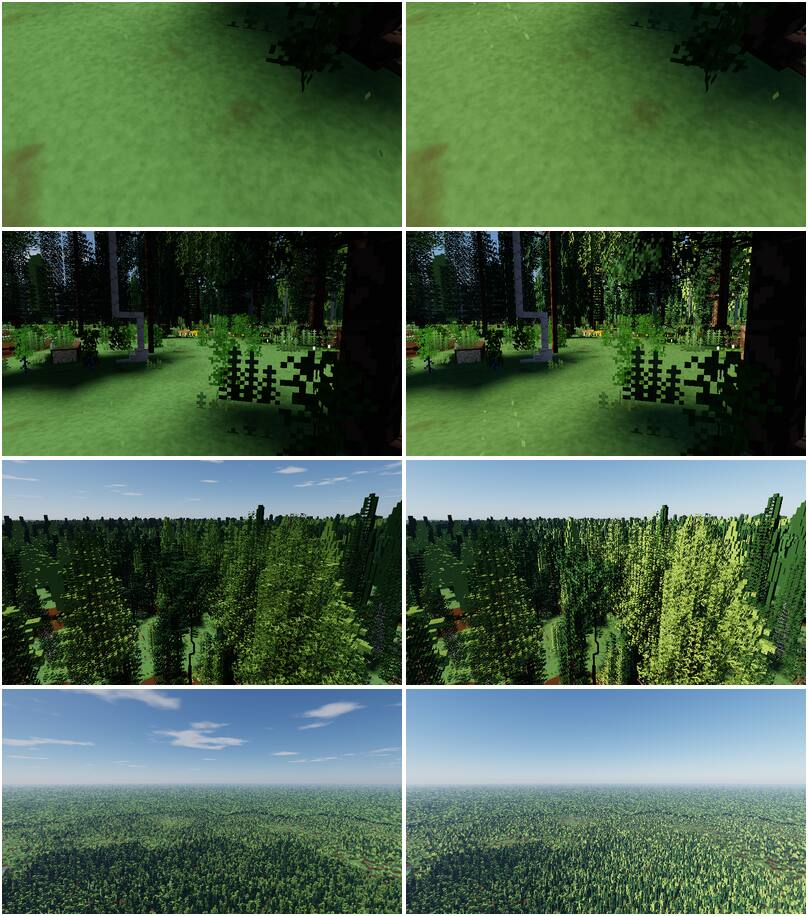
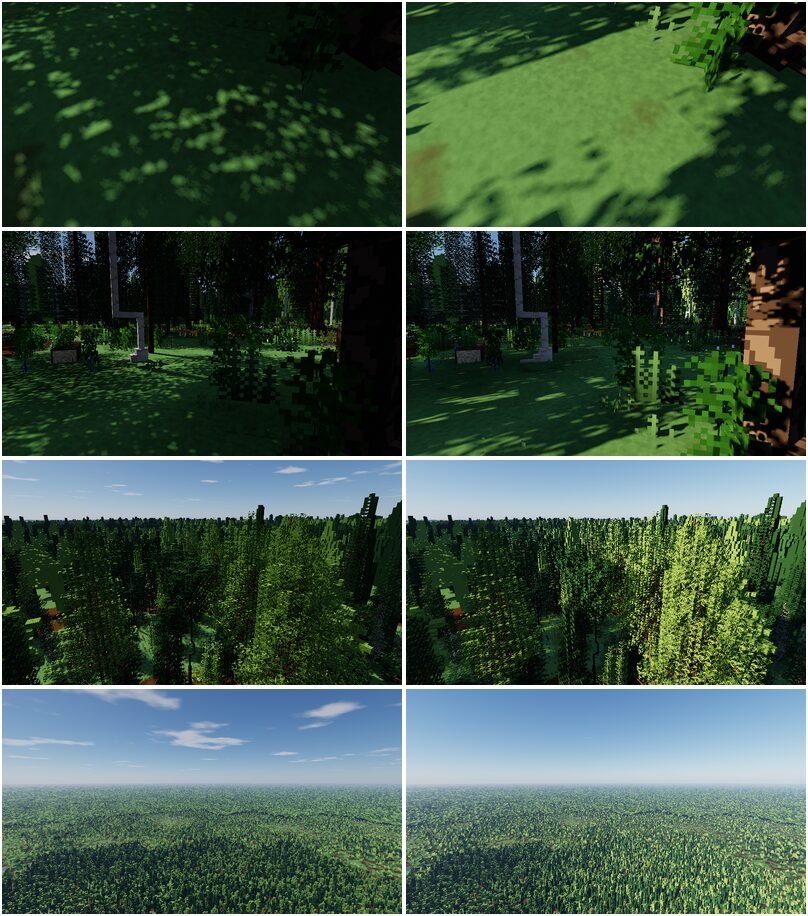
R1a: review pictures, the suite with shadows, image measures, benchmarks, PROGRESS
The realism suite re-rendered with the sun's shadows; low sun before and
after, shadows off and on, the soft edges underfoot (docs/review/r1a/).
Image statistics: spectral alpha underfoot 1.89 -> 2.26, at eye height
1.23 -> 1.32, colourfulness at eye height 60 -> 54. The frame thread
+1.5 ms on the software device (prepare: terrain 1.02 -> 2.52 ms).

Claude-Session: https://claude.ai/code/session_01C1fpqWnDUkUnvLbUdps2rC

diff --git a/docs/review/realism/measures/images.md b/docs/review/realism/measures/images.md
@@ -1,134 +1,134 @@
 | Shot | Luminance p5 · p50 · p95 | Colourfulness | Spectral α | Repetition (lag px) |
 |---|---|---|---|---|
-| alpine_meadow_feet_day | 0.22 · 0.50 · 0.53 | 57 | 1.70 | 0.02 (226) |
-| alpine_meadow_feet_low | 0.27 · 0.50 · 0.53 | 56 | 1.69 | 0.02 (226) |
+| alpine_meadow_feet_day | 0.12 · 0.49 · 0.53 | 60 | 2.04 | 0.07 (216) |
+| alpine_meadow_feet_low | 0.14 · 0.48 · 0.53 | 59 | 2.15 | 0.00 (173) |
 | alpine_meadow_hill_day | 0.46 · 0.53 · 0.75 | 60 | 1.14 | 0.03 (95) |
 | alpine_meadow_hill_low | 0.48 · 0.58 · 0.80 | 56 | 1.29 | 0.09 (103) |
-| alpine_meadow_rise_day | 0.41 · 0.50 · 0.75 | 70 | 0.86 | 0.01 (20) |
-| alpine_meadow_rise_low | 0.43 · 0.50 · 0.80 | 68 | 0.94 | 0.01 (19) |
-| alpine_meadow_walk_day | 0.23 · 0.51 · 0.74 | 73 | 1.22 | 0.01 (180) |
-| alpine_meadow_walk_low | 0.28 · 0.52 · 0.80 | 76 | 1.20 | 0.01 (181) |
-| alpine_rock_feet_day | 0.41 · 0.48 · 0.51 | 7 | 1.90 | 0.01 (240) |
-| alpine_rock_feet_low | 0.32 · 0.39 · 0.43 | 8 | 1.92 | 0.01 (240) |
+| alpine_meadow_rise_day | 0.39 · 0.50 · 0.75 | 70 | 0.89 | 0.01 (20) |
+| alpine_meadow_rise_low | 0.34 · 0.50 · 0.80 | 67 | 1.15 | 0.02 (153) |
+| alpine_meadow_walk_day | 0.13 · 0.50 · 0.74 | 70 | 1.30 | 0.03 (235) |
+| alpine_meadow_walk_low | 0.11 · 0.51 · 0.80 | 69 | 1.29 | 0.03 (200) |
+| alpine_rock_feet_day | 0.41 · 0.48 · 0.51 | 8 | 1.91 | 0.01 (240) |
+| alpine_rock_feet_low | 0.32 · 0.39 · 0.43 | 8 | 1.94 | 0.01 (240) |
 | alpine_rock_hill_day | 0.44 · 0.54 · 0.73 | 44 | 1.47 | 0.00 (192) |
 | alpine_rock_hill_low | 0.46 · 0.61 · 0.81 | 44 | 1.63 | 0.01 (237) |
-| alpine_rock_rise_day | 0.43 · 0.50 · 0.72 | 32 | 0.92 | 0.02 (169) |
-| alpine_rock_rise_low | 0.40 · 0.53 · 0.81 | 33 | 0.83 | 0.03 (240) |
-| alpine_rock_walk_day | 0.06 · 0.51 · 0.72 | 42 | 1.30 | 0.15 (203) |
-| alpine_rock_walk_low | 0.08 · 0.53 · 0.80 | 44 | 1.01 | 0.10 (206) |
-| beach_feet_day | 0.75 · 0.79 · 0.82 | 6 | 2.49 | 0.05 (173) |
-| beach_feet_low | 0.75 · 0.79 · 0.82 | 8 | 2.49 | 0.05 (173) |
+| alpine_rock_rise_day | 0.42 · 0.50 · 0.72 | 32 | 0.99 | 0.02 (169) |
+| alpine_rock_rise_low | 0.38 · 0.53 · 0.81 | 33 | 0.96 | 0.03 (239) |
+| alpine_rock_walk_day | 0.06 · 0.51 · 0.72 | 42 | 1.31 | 0.13 (204) |
+| alpine_rock_walk_low | 0.08 · 0.53 · 0.80 | 44 | 1.08 | 0.10 (202) |
+| beach_feet_day | 0.75 · 0.79 · 0.82 | 6 | 2.49 | 0.05 (172) |
+| beach_feet_low | 0.43 · 0.78 · 0.82 | 22 | 2.66 | 0.00 (0) |
 | beach_hill_day | 0.42 · 0.63 · 0.71 | 44 | 1.19 | 0.01 (233) |
-| beach_hill_low | 0.60 · 0.72 · 0.82 | 37 | 1.13 | 0.00 (232) |
-| beach_rise_day | 0.22 · 0.66 · 0.79 | 39 | 1.52 | 0.05 (206) |
-| beach_rise_low | 0.43 · 0.79 · 0.82 | 37 | 1.44 | 0.04 (202) |
-| beach_walk_day | 0.19 · 0.75 · 0.82 | 41 | 1.21 | 0.04 (189) |
-| beach_walk_low | 0.40 · 0.78 · 0.82 | 41 | 1.23 | 0.03 (189) |
-| boreal_forest_feet_day | 0.02 · 0.46 · 0.54 | 38 | 2.26 | 0.00 (0) |
-| boreal_forest_feet_low | 0.03 · 0.46 · 0.56 | 39 | 2.25 | 0.00 (0) |
+| beach_hill_low | 0.60 · 0.72 · 0.82 | 37 | 1.13 | 0.00 (212) |
+| beach_rise_day | 0.22 · 0.66 · 0.79 | 39 | 1.56 | 0.07 (199) |
+| beach_rise_low | 0.36 · 0.78 · 0.82 | 36 | 1.45 | 0.03 (202) |
+| beach_walk_day | 0.18 · 0.75 · 0.82 | 41 | 1.20 | 0.03 (189) |
+| beach_walk_low | 0.30 · 0.78 · 0.82 | 40 | 1.19 | 0.02 (178) |
+| boreal_forest_feet_day | 0.02 · 0.11 · 0.29 | 19 | 2.42 | 0.23 (200) |
+| boreal_forest_feet_low | 0.09 · 0.42 · 0.55 | 43 | 2.43 | 0.00 (0) |
 | boreal_forest_hill_day | 0.10 · 0.49 · 0.73 | 48 | 0.57 | 0.01 (126) |
 | boreal_forest_hill_low | 0.13 · 0.59 · 0.81 | 51 | 0.43 | 0.01 (127) |
-| boreal_forest_rise_day | 0.02 · 0.15 · 0.72 | 43 | 0.78 | 0.10 (133) |
-| boreal_forest_rise_low | 0.02 · 0.38 · 0.81 | 54 | 0.67 | 0.07 (134) |
-| boreal_forest_walk_day | 0.00 · 0.06 · 0.53 | 37 | 1.19 | 0.00 (0) |
-| boreal_forest_walk_low | 0.01 · 0.09 · 0.55 | 42 | 1.01 | 0.00 (0) |
-| broadleaf_forest_feet_day | 0.31 · 0.53 · 0.57 | 41 | 1.63 | 0.02 (231) |
-| broadleaf_forest_feet_low | 0.38 · 0.55 · 0.58 | 42 | 1.63 | 0.02 (237) |
+| boreal_forest_rise_day | 0.02 · 0.13 · 0.72 | 40 | 0.78 | 0.08 (139) |
+| boreal_forest_rise_low | 0.02 · 0.20 · 0.81 | 51 | 0.64 | 0.01 (234) |
+| boreal_forest_walk_day | 0.00 · 0.04 · 0.35 | 23 | 1.08 | 0.00 (0) |
+| boreal_forest_walk_low | 0.01 · 0.10 · 0.52 | 38 | 1.18 | 0.02 (217) |
+| broadleaf_forest_feet_day | 0.09 · 0.43 · 0.56 | 45 | 2.23 | 0.00 (0) |
+| broadleaf_forest_feet_low | 0.15 · 0.53 · 0.58 | 46 | 2.40 | 0.00 (145) |
 | broadleaf_forest_hill_day | 0.13 · 0.51 · 0.72 | 50 | 0.67 | 0.01 (126) |
-| broadleaf_forest_hill_low | 0.17 · 0.61 · 0.81 | 54 | 0.46 | 0.01 (127) |
-| broadleaf_forest_rise_day | 0.03 · 0.32 · 0.71 | 49 | 1.29 | 0.02 (240) |
-| broadleaf_forest_rise_low | 0.05 · 0.53 · 0.81 | 58 | 1.15 | 0.01 (238) |
-| broadleaf_forest_walk_day | 0.02 · 0.34 · 0.57 | 53 | 1.20 | 0.04 (167) |
-| broadleaf_forest_walk_low | 0.02 · 0.49 · 0.69 | 60 | 1.06 | 0.02 (168) |
-| dune_sea_feet_day | 0.23 · 0.27 · 0.51 | 21 | 2.08 | 0.07 (64) |
-| dune_sea_feet_low | 0.24 · 0.28 · 0.62 | 25 | 2.05 | 0.06 (64) |
+| broadleaf_forest_hill_low | 0.17 · 0.61 · 0.81 | 54 | 0.46 | 0.01 (198) |
+| broadleaf_forest_rise_day | 0.03 · 0.24 · 0.71 | 45 | 1.31 | 0.03 (206) |
+| broadleaf_forest_rise_low | 0.05 · 0.35 · 0.81 | 52 | 1.16 | 0.05 (240) |
+| broadleaf_forest_walk_day | 0.02 · 0.26 · 0.57 | 50 | 1.28 | 0.03 (162) |
+| broadleaf_forest_walk_low | 0.02 · 0.15 · 0.63 | 48 | 1.22 | 0.01 (145) |
+| dune_sea_feet_day | 0.23 · 0.27 · 0.51 | 21 | 2.17 | 0.05 (62) |
+| dune_sea_feet_low | 0.06 · 0.27 · 0.44 | 25 | 2.24 | 0.05 (240) |
 | dune_sea_hill_day | 0.29 · 0.38 · 0.69 | 44 | 1.35 | 0.01 (95) |
 | dune_sea_hill_low | 0.32 · 0.50 · 0.84 | 40 | 1.33 | 0.01 (95) |
-| dune_sea_rise_day | 0.27 · 0.28 · 0.68 | 37 | 0.93 | 0.01 (122) |
-| dune_sea_rise_low | 0.27 · 0.30 · 0.83 | 32 | 0.90 | 0.02 (124) |
-| dune_sea_walk_day | 0.23 · 0.39 · 0.69 | 54 | 1.39 | 0.12 (85) |
-| dune_sea_walk_low | 0.24 · 0.55 · 0.83 | 55 | 1.39 | 0.11 (85) |
-| hot_desert_feet_day | 0.76 · 0.80 · 0.83 | 24 | 2.11 | 0.06 (198) |
-| hot_desert_feet_low | 0.76 · 0.80 · 0.83 | 28 | 2.24 | 0.06 (198) |
+| dune_sea_rise_day | 0.27 · 0.28 · 0.68 | 37 | 0.92 | 0.01 (97) |
+| dune_sea_rise_low | 0.22 · 0.29 · 0.83 | 32 | 0.86 | 0.02 (126) |
+| dune_sea_walk_day | 0.23 · 0.39 · 0.69 | 54 | 1.37 | 0.12 (84) |
+| dune_sea_walk_low | 0.07 · 0.49 · 0.83 | 53 | 1.40 | 0.07 (168) |
+| hot_desert_feet_day | 0.76 · 0.80 · 0.83 | 24 | 2.36 | 0.06 (198) |
+| hot_desert_feet_low | 0.40 · 0.79 · 0.83 | 31 | 2.53 | 0.02 (198) |
 | hot_desert_hill_day | 0.39 · 0.78 · 0.80 | 52 | 1.57 | 0.03 (177) |
 | hot_desert_hill_low | 0.57 · 0.80 · 0.83 | 49 | 1.39 | 0.03 (177) |
-| hot_desert_rise_day | 0.51 · 0.80 · 0.81 | 46 | 0.68 | 0.01 (90) |
-| hot_desert_rise_low | 0.69 · 0.80 · 0.82 | 44 | 0.67 | 0.02 (106) |
-| hot_desert_walk_day | 0.39 · 0.68 · 0.83 | 61 | 1.29 | 0.05 (240) |
-| hot_desert_walk_low | 0.54 · 0.77 · 0.83 | 64 | 1.23 | 0.04 (240) |
-| mediterranean_scrub_feet_day | 0.09 · 0.46 · 0.59 | 48 | 1.76 | 0.00 (0) |
-| mediterranean_scrub_feet_low | 0.13 · 0.56 · 0.70 | 56 | 1.75 | 0.00 (0) |
+| hot_desert_rise_day | 0.51 · 0.80 · 0.81 | 46 | 0.69 | 0.01 (90) |
+| hot_desert_rise_low | 0.68 · 0.80 · 0.82 | 44 | 0.87 | 0.01 (84) |
+| hot_desert_walk_day | 0.39 · 0.68 · 0.83 | 61 | 1.30 | 0.05 (240) |
+| hot_desert_walk_low | 0.37 · 0.76 · 0.83 | 61 | 1.44 | 0.03 (240) |
+| mediterranean_scrub_feet_day | 0.09 · 0.55 · 0.60 | 54 | 2.46 | 0.07 (143) |
+| mediterranean_scrub_feet_low | 0.09 · 0.65 · 0.70 | 63 | 2.45 | 0.00 (0) |
 | mediterranean_scrub_hill_day | 0.35 · 0.55 · 0.71 | 63 | 1.10 | 0.03 (203) |
-| mediterranean_scrub_hill_low | 0.40 · 0.61 · 0.82 | 60 | 0.95 | 0.01 (35) |
-| mediterranean_scrub_rise_day | 0.12 · 0.55 · 0.69 | 68 | 1.25 | 0.05 (238) |
-| mediterranean_scrub_rise_low | 0.22 · 0.59 · 0.82 | 68 | 0.99 | 0.01 (220) |
-| mediterranean_scrub_walk_day | 0.12 · 0.48 · 0.68 | 67 | 1.23 | 0.00 (28) |
-| mediterranean_scrub_walk_low | 0.17 · 0.60 · 0.76 | 75 | 1.16 | 0.00 (98) |
-| mixed_forest_feet_day | 0.04 · 0.48 · 0.57 | 43 | 1.89 | 0.00 (0) |
-| mixed_forest_feet_low | 0.06 · 0.51 · 0.58 | 46 | 1.92 | 0.00 (0) |
+| mediterranean_scrub_hill_low | 0.40 · 0.61 · 0.82 | 60 | 0.96 | 0.02 (35) |
+| mediterranean_scrub_rise_day | 0.12 · 0.55 · 0.69 | 68 | 1.24 | 0.04 (236) |
+| mediterranean_scrub_rise_low | 0.16 · 0.57 · 0.82 | 65 | 1.00 | 0.01 (219) |
+| mediterranean_scrub_walk_day | 0.11 · 0.52 · 0.69 | 70 | 1.33 | 0.03 (240) |
+| mediterranean_scrub_walk_low | 0.11 · 0.63 · 0.76 | 77 | 1.37 | 0.06 (228) |
+| mixed_forest_feet_day | 0.04 · 0.12 · 0.55 | 33 | 1.96 | 0.00 (0) |
+| mixed_forest_feet_low | 0.05 · 0.16 · 0.57 | 42 | 2.09 | 0.00 (0) |
 | mixed_forest_hill_day | 0.13 · 0.52 · 0.72 | 50 | 0.86 | 0.02 (224) |
 | mixed_forest_hill_low | 0.18 · 0.59 · 0.82 | 51 | 0.52 | 0.01 (224) |
-| mixed_forest_rise_day | 0.04 · 0.49 · 0.71 | 49 | 1.33 | 0.07 (240) |
-| mixed_forest_rise_low | 0.07 · 0.56 · 0.81 | 57 | 1.13 | 0.01 (240) |
-| mixed_forest_walk_day | 0.01 · 0.07 · 0.54 | 32 | 1.67 | 0.01 (121) |
-| mixed_forest_walk_low | 0.02 · 0.11 · 0.70 | 49 | 1.75 | 0.00 (0) |
-| savanna_feet_day | 0.43 · 0.53 · 0.57 | 53 | 1.85 | 0.04 (185) |
-| savanna_feet_low | 0.48 · 0.53 · 0.59 | 55 | 2.00 | 0.03 (240) |
+| mixed_forest_rise_day | 0.04 · 0.41 · 0.71 | 46 | 1.33 | 0.12 (240) |
+| mixed_forest_rise_low | 0.06 · 0.50 · 0.81 | 52 | 1.11 | 0.01 (213) |
+| mixed_forest_walk_day | 0.01 · 0.06 · 0.53 | 27 | 1.61 | 0.03 (124) |
+| mixed_forest_walk_low | 0.02 · 0.09 · 0.67 | 40 | 1.84 | 0.00 (0) |
+| savanna_feet_day | 0.23 · 0.53 · 0.57 | 56 | 2.42 | 0.04 (228) |
+| savanna_feet_low | 0.18 · 0.29 · 0.55 | 57 | 2.75 | 0.03 (235) |
 | savanna_hill_day | 0.37 · 0.54 · 0.68 | 66 | 1.16 | 0.03 (236) |
-| savanna_hill_low | 0.48 · 0.62 · 0.82 | 56 | 0.74 | 0.02 (233) |
-| savanna_rise_day | 0.08 · 0.54 · 0.67 | 72 | 1.42 | 0.02 (124) |
-| savanna_rise_low | 0.27 · 0.54 · 0.82 | 72 | 1.18 | 0.02 (115) |
-| savanna_walk_day | 0.09 · 0.50 · 0.63 | 80 | 1.44 | 0.05 (171) |
-| savanna_walk_low | 0.31 · 0.54 · 0.79 | 85 | 1.32 | 0.05 (212) |
-| steppe_feet_day | 0.42 · 0.56 · 0.66 | 39 | 1.89 | 0.06 (182) |
-| steppe_feet_low | 0.43 · 0.56 · 0.74 | 39 | 1.94 | 0.05 (181) |
+| savanna_hill_low | 0.48 · 0.61 · 0.82 | 56 | 0.76 | 0.02 (233) |
+| savanna_rise_day | 0.08 · 0.53 · 0.67 | 71 | 1.45 | 0.02 (240) |
+| savanna_rise_low | 0.21 · 0.54 · 0.82 | 68 | 1.14 | 0.05 (234) |
+| savanna_walk_day | 0.08 · 0.48 · 0.62 | 77 | 1.53 | 0.07 (177) |
+| savanna_walk_low | 0.13 · 0.49 · 0.79 | 72 | 1.41 | 0.02 (228) |
+| steppe_feet_day | 0.14 · 0.55 · 0.60 | 45 | 2.28 | 0.02 (182) |
+| steppe_feet_low | 0.18 · 0.55 · 0.68 | 49 | 2.36 | 0.00 (205) |
 | steppe_hill_day | 0.47 · 0.60 · 0.72 | 51 | 1.38 | 0.03 (54) |
 | steppe_hill_low | 0.57 · 0.63 · 0.81 | 50 | 1.11 | 0.02 (58) |
-| steppe_rise_day | 0.53 · 0.60 · 0.72 | 53 | 1.04 | 0.01 (167) |
-| steppe_rise_low | 0.54 · 0.61 · 0.81 | 54 | 1.05 | 0.01 (126) |
-| steppe_walk_day | 0.37 · 0.59 · 0.74 | 57 | 1.54 | 0.02 (123) |
-| steppe_walk_low | 0.46 · 0.68 · 0.81 | 61 | 1.55 | 0.01 (225) |
-| stream_rise_day | 0.04 · 0.31 · 0.74 | 47 | 1.08 | 0.09 (240) |
-| stream_rise_low | 0.06 · 0.46 · 0.80 | 54 | 0.89 | 0.09 (240) |
-| stream_walk_day | 0.01 · 0.29 · 0.54 | 58 | 0.95 | 0.00 (200) |
-| stream_walk_low | 0.02 · 0.38 · 0.63 | 61 | 0.88 | 0.00 (197) |
-| temperate_plains_feet_day | 0.31 · 0.53 · 0.58 | 34 | 1.63 | 0.04 (212) |
-| temperate_plains_feet_low | 0.38 · 0.53 · 0.64 | 35 | 1.70 | 0.03 (212) |
+| steppe_rise_day | 0.46 · 0.59 · 0.72 | 53 | 1.03 | 0.02 (167) |
+| steppe_rise_low | 0.35 · 0.60 · 0.81 | 52 | 1.08 | 0.04 (35) |
+| steppe_walk_day | 0.18 · 0.57 · 0.73 | 54 | 1.65 | 0.09 (225) |
+| steppe_walk_low | 0.18 · 0.62 · 0.80 | 55 | 1.73 | 0.01 (115) |
+| stream_rise_day | 0.04 · 0.23 · 0.74 | 44 | 1.12 | 0.05 (116) |
+| stream_rise_low | 0.05 · 0.37 · 0.80 | 47 | 0.90 | 0.06 (240) |
+| stream_walk_day | 0.01 · 0.10 · 0.53 | 37 | 0.94 | 0.03 (240) |
+| stream_walk_low | 0.02 · 0.14 · 0.62 | 46 | 0.96 | 0.01 (222) |
+| temperate_plains_feet_day | 0.19 · 0.53 · 0.57 | 35 | 2.13 | 0.02 (211) |
+| temperate_plains_feet_low | 0.14 · 0.52 · 0.57 | 41 | 2.24 | 0.00 (0) |
 | temperate_plains_hill_day | 0.14 · 0.52 · 0.72 | 49 | 0.79 | 0.02 (142) |
-| temperate_plains_hill_low | 0.20 · 0.59 · 0.81 | 50 | 0.50 | 0.02 (135) |
-| temperate_plains_rise_day | 0.07 · 0.53 · 0.71 | 49 | 1.14 | 0.02 (199) |
-| temperate_plains_rise_low | 0.10 · 0.53 · 0.81 | 52 | 0.81 | 0.02 (173) |
-| temperate_plains_walk_day | 0.08 · 0.52 · 0.69 | 62 | 1.33 | 0.06 (231) |
-| temperate_plains_walk_low | 0.12 · 0.54 · 0.78 | 68 | 1.04 | 0.09 (230) |
-| temperate_rainforest_feet_day | 0.29 · 0.49 · 0.52 | 45 | 1.48 | 0.05 (209) |
-| temperate_rainforest_feet_low | 0.35 · 0.50 · 0.54 | 44 | 1.63 | 0.05 (205) |
-| temperate_rainforest_hill_day | 0.13 · 0.50 · 0.74 | 46 | 0.75 | 0.01 (119) |
+| temperate_plains_hill_low | 0.20 · 0.59 · 0.81 | 50 | 0.51 | 0.02 (135) |
+| temperate_plains_rise_day | 0.07 · 0.53 · 0.71 | 49 | 1.13 | 0.02 (199) |
+| temperate_plains_rise_low | 0.10 · 0.53 · 0.81 | 50 | 0.87 | 0.02 (188) |
+| temperate_plains_walk_day | 0.07 · 0.51 · 0.69 | 61 | 1.33 | 0.08 (233) |
+| temperate_plains_walk_low | 0.07 · 0.53 · 0.77 | 64 | 1.10 | 0.04 (231) |
+| temperate_rainforest_feet_day | 0.13 · 0.47 · 0.52 | 52 | 2.19 | 0.10 (240) |
+| temperate_rainforest_feet_low | 0.10 · 0.37 · 0.53 | 54 | 2.29 | 0.00 (240) |
+| temperate_rainforest_hill_day | 0.13 · 0.50 · 0.74 | 46 | 0.76 | 0.01 (119) |
 | temperate_rainforest_hill_low | 0.17 · 0.57 · 0.80 | 46 | 0.46 | 0.01 (81) |
-| temperate_rainforest_rise_day | 0.03 · 0.23 · 0.74 | 49 | 0.90 | 0.05 (214) |
-| temperate_rainforest_rise_low | 0.05 · 0.46 · 0.80 | 54 | 0.78 | 0.03 (140) |
-| temperate_rainforest_walk_day | 0.02 · 0.37 · 0.58 | 64 | 1.05 | 0.01 (155) |
-| temperate_rainforest_walk_low | 0.03 · 0.46 · 0.65 | 68 | 0.94 | 0.01 (236) |
-| tropical_rainforest_feet_day | 0.05 · 0.37 · 0.55 | 54 | 1.73 | 0.00 (0) |
-| tropical_rainforest_feet_low | 0.16 · 0.43 · 0.58 | 55 | 1.84 | 0.00 (0) |
+| temperate_rainforest_rise_day | 0.03 · 0.17 · 0.74 | 43 | 1.01 | 0.06 (218) |
+| temperate_rainforest_rise_low | 0.05 · 0.30 · 0.80 | 45 | 0.78 | 0.07 (232) |
+| temperate_rainforest_walk_day | 0.02 · 0.32 · 0.58 | 62 | 1.13 | 0.02 (178) |
+| temperate_rainforest_walk_low | 0.02 · 0.20 · 0.64 | 57 | 1.10 | 0.10 (240) |
+| tropical_rainforest_feet_day | 0.04 · 0.47 · 0.56 | 61 | 1.96 | 0.15 (219) |
+| tropical_rainforest_feet_low | 0.05 · 0.14 · 0.20 | 27 | 1.78 | 0.04 (208) |
 | tropical_rainforest_hill_day | 0.14 · 0.49 · 0.68 | 51 | 0.80 | 0.02 (124) |
-| tropical_rainforest_hill_low | 0.29 · 0.62 · 0.82 | 50 | 0.52 | 0.01 (124) |
-| tropical_rainforest_rise_day | 0.05 · 0.29 · 0.66 | 56 | 1.22 | 0.08 (126) |
-| tropical_rainforest_rise_low | 0.14 · 0.54 · 0.80 | 68 | 0.99 | 0.05 (126) |
-| tropical_rainforest_walk_day | 0.02 · 0.15 · 0.55 | 51 | 1.58 | 0.00 (0) |
-| tropical_rainforest_walk_low | 0.05 · 0.36 · 0.65 | 62 | 1.64 | 0.14 (240) |
-| tundra_feet_day | 0.41 · 0.47 · 0.50 | 42 | 2.06 | 0.05 (125) |
-| tundra_feet_low | 0.42 · 0.46 · 0.49 | 41 | 2.15 | 0.05 (125) |
+| tropical_rainforest_hill_low | 0.29 · 0.62 · 0.82 | 50 | 0.53 | 0.01 (124) |
+| tropical_rainforest_rise_day | 0.05 · 0.25 · 0.66 | 54 | 1.23 | 0.08 (143) |
+| tropical_rainforest_rise_low | 0.10 · 0.39 · 0.80 | 62 | 1.05 | 0.06 (179) |
+| tropical_rainforest_walk_day | 0.02 · 0.13 · 0.55 | 49 | 1.61 | 0.00 (0) |
+| tropical_rainforest_walk_low | 0.03 · 0.16 · 0.72 | 47 | 1.56 | 0.02 (209) |
+| tundra_feet_day | 0.15 · 0.47 · 0.50 | 46 | 2.95 | 0.07 (133) |
+| tundra_feet_low | 0.18 · 0.46 · 0.49 | 45 | 2.80 | 0.08 (218) |
 | tundra_hill_day | 0.49 · 0.55 · 0.77 | 55 | 1.34 | 0.00 (196) |
 | tundra_hill_low | 0.51 · 0.59 · 0.80 | 52 | 1.42 | 0.01 (76) |
-| tundra_rise_day | 0.42 · 0.50 · 0.76 | 62 | 1.01 | 0.01 (149) |
-| tundra_rise_low | 0.42 · 0.50 · 0.80 | 61 | 1.08 | 0.03 (223) |
-| tundra_walk_day | 0.24 · 0.49 · 0.75 | 65 | 1.27 | 0.01 (233) |
-| tundra_walk_low | 0.32 · 0.50 · 0.80 | 67 | 1.30 | 0.02 (239) |
-| wetland_feet_day | 0.04 · 0.21 · 0.52 | 58 | 1.62 | 0.00 (0) |
-| wetland_feet_low | 0.07 · 0.29 · 0.55 | 61 | 1.74 | 0.00 (0) |
-| wetland_hill_day | 0.18 · 0.42 · 0.68 | 57 | 0.58 | 0.01 (207) |
-| wetland_hill_low | 0.34 · 0.67 · 0.86 | 67 | 0.54 | 0.01 (52) |
-| wetland_rise_day | 0.04 · 0.16 · 0.55 | 42 | 1.31 | 0.04 (210) |
-| wetland_rise_low | 0.07 · 0.39 · 0.79 | 72 | 1.20 | 0.03 (208) |
-| wetland_walk_day | 0.00 · 0.05 · 0.44 | 48 | 1.29 | 0.00 (0) |
-| wetland_walk_low | 0.01 · 0.11 · 0.55 | 60 | 1.24 | 0.00 (0) |
+| tundra_rise_day | 0.39 · 0.50 · 0.76 | 62 | 1.03 | 0.01 (219) |
+| tundra_rise_low | 0.34 · 0.50 · 0.80 | 60 | 1.18 | 0.02 (198) |
+| tundra_walk_day | 0.14 · 0.48 · 0.75 | 62 | 1.45 | 0.10 (173) |
+| tundra_walk_low | 0.16 · 0.49 · 0.80 | 62 | 1.43 | 0.01 (240) |
+| wetland_feet_day | 0.03 · 0.08 · 0.54 | 57 | 2.04 | 0.00 (0) |
+| wetland_feet_low | 0.05 · 0.12 · 0.19 | 25 | 1.53 | 0.00 (0) |
+| wetland_hill_day | 0.18 · 0.42 · 0.68 | 57 | 0.58 | 0.01 (197) |
+| wetland_hill_low | 0.33 · 0.66 · 0.86 | 66 | 0.57 | 0.01 (52) |
+| wetland_rise_day | 0.03 · 0.15 · 0.55 | 41 | 1.35 | 0.03 (183) |
+| wetland_rise_low | 0.07 · 0.35 · 0.79 | 69 | 1.33 | 0.04 (231) |
+| wetland_walk_day | 0.00 · 0.04 · 0.47 | 42 | 1.39 | 0.03 (154) |
+| wetland_walk_low | 0.01 · 0.07 · 0.17 | 23 | 1.07 | 0.00 (0) |

diff --git a/PROGRESS.md b/PROGRESS.md
@@ -91,6 +91,41 @@ Pictures and runs that need the owner (T §7), newest first:
 - `cargo test -p hearth_worldgen --test planet_pinned` on the laptop: whether Windows' maths make
   the same planet as Linux's (D289). One command, a pass or a failure to paste back.
 
+## R1a — the sun's shadows (2026-10-09, D298, RGA-1's first gap)
+- **Cascaded shadow maps** (`hearth_render::shadow`, `terrain/casters.rs`, `common.wgsl`): four
+  spheres about the camera (12–320 blocks; texels 1.2–31 cm at 2048²) and one over the distant
+  terrain (1–12 km), their texels still as the camera walks and turns (snapped centres, the
+  light moved on in 0.23° steps), the outer ones redrawn by turns. Cast: the far side of solid
+  cubes, the smooth ground and the distant height fields, plants and leaves cut to their texels
+  (fallen ones left out), figures, people's bodies (in first person with the head), the mesh
+  trees; the near world into the near cascades (the cubes looked up in each one's region), the
+  distant terrain into the far one, where a near point counts only what lies beyond its near
+  cascade's reach. Received by the terrain, water and ice, the distant terrain, figures, skin,
+  hair and eyes, trees: each comparison against the surface's own plane, the edges as soft as
+  the sun's disc makes them in the two nearest cascades (to 3.7 cm); never deep in enclosed
+  places. Option *Shadows* (off, low, medium, high; presets), screenshot `shadows=`, bench
+  `--shadows`, F3 line.
+- **Tests**: `sun_shadows` (a slab over the ground: its shadow 0.161 against 0.567 without the
+  maps; the open ground 0.592 both ways); `shadow.rs` (the light's basis, the snapping, the
+  light's steps and the cascades' turns, the casters' selection, every caster in its cascade's
+  box); `options` (an older file's shadows by its preset).
+- **Pictures**: the realism suite re-rendered with shadows (`docs/review/realism/suite/`); low
+  sun before and after, a person, a ridge at dawn, the soft edges (`docs/review/r1a/`).
+- **Accepted** (PLAN, R1a): the suite's low-sun shots shadowed — trees, tussocks, stones and
+  people cast at 7 h, the distant terrain at 5 h; the GPU budget (≤ 1.5 ms at 1080p on the
+  RTX 4060) is the owner's check: on the software device the shadow passes take half the main
+  terrain pass's time (1.54 M triangles a frame against 0.81 M without, 5,316 draws against
+  2,492), the frame thread +1.5 ms (prepare: terrain 1.02 → 2.52 ms; `BENCHMARKS.md`).
+- **Real?** Shadows from the sun's own direction and disc; image statistics (medians over the
+  biomes): spectral α underfoot 1.89 → 2.26 (the Earth's 1.8–2.4), at eye height 1.23 → 1.32,
+  colourfulness at eye height 60 → 54 (15–60); a low sun's darkest tones underfoot 0.34 → 0.14.
+  **Lean?** One module and a submodule; the sky-light gate kept only where no map reaches;
+  `terrain.rs` split (the arena, the casters) under 2,000 lines. **Fast?** Within the CPU
+  budget here; the GPU on the PC. **Whole?** Everything lit by the sun receives and nearly
+  everything casts (not hair, eyes or the distant crowns' boxes, D298). **Organic?** The
+  penumbra's spiral turned by a hash fixed in the world.
+- Next: G1a, the relief from 30 m to 30 km.
+
 ## T2 — the realism gap analysis (2026-10-09, Amendment T §3, D296–D297)
 - **Measured** (`bench realism terrain|global|levels|weather|images`; `docs/review/realism/`):
   the planet right (land 29.0 %, mean land 791 m); the land between 30 m and 30 km half the

diff --git a/docs/review/realism/scorecard.md b/docs/review/realism/scorecard.md
@@ -4,9 +4,9 @@ How the generated Earth stands against the real one, scale by scale: each measur
 its target, and the last realism suite's verdict. Updated at every audit (the measures by
 `bench realism`, the suite by `tools/shots/realism.shots`; RGA-1 for the evidence). Seed 7.
 
-**Last update:** T2, 2026-10-09 (RGA-1). **Top open gaps:** cast shadows (none); the relief from
-30 m to 30 km (half the Earth's over all land, a sixth in hill country); trees, grass and water
-drawn as blocks and sprites.
+**Last update:** R1a, 2026-10-09 (the Light and Images rows; the rest T2's, RGA-1). **Top open
+gaps:** the relief from 30 m to 30 km (half the Earth's over all land, a sixth in hill country);
+trees, grass and water drawn as blocks and sprites; indirect light.
 
 | Scale / system | Measure | Now | Target | Suite verdict |
 |---|---|---|---|---|
@@ -22,9 +22,9 @@ drawn as blocks and sprites.
 | Ground | What lies on it | one green sward, pixel-art sprites | litter, pebbles, moss, roots by biome | A lawn in every biome, tundra and boreal included |
 | Water | Cube edges; rivers in channels that hold them | blocks in 1 m steps; chords | none; all | (stream shots) |
 | Trees | How drawn; how placed | voxel templates; each site alone | meshes (S5); spaced by competition, clumped | Blocky crowns, branch bars |
-| Light | Cast shadows | none | the sun's, near and far | A low sun lights the world as noon does |
+| Light | Cast shadows | the sun's: near to 320 m (soft as its disc to 3.7 cm), far to 12 km (R1a) | the sun's, near and far | Trees, grass and people cast at a low sun; gentle land too smooth to (G1a) |
 | Distance | Seam ratio across the edge of full detail (median); outer band's brightness | forests 4.6, open land 3.7; −46 to +89 % | ≤ 1.3; ± 5 % | The forest's edge, the lighter LOD band, a disc of sprites |
 | Weather | Wet hours, London; the year against its normal | 6.0 %; +5 % (D296) | 6–8 %; ± 10 % | — |
 | Weather | Cloud types; fog | one layer; none | types by situation; valley and coastal fog | One cloud layer |
-| Images | Spectral α underfoot · at eye height · from the hill; colourfulness at eye height | 1.9 · 1.2 · 1.0; 60 | 1.8–2.4; 15–60 | Pixels and cube edges, no broad shade |
+| Images | Spectral α underfoot · at eye height · from the hill; colourfulness at eye height | 2.3 · 1.3 · 1.0; 54 (R1a; T2 1.9 · 1.2 · 1.0; 60) | 1.8–2.4; 15–60 | Shade breaks the pixels underfoot; cube edges remain |
 | Biomes | Landforms present (dunes, mesas, scree, surf) | none (no dunes; no Mesa land) | each where it belongs | A dune sea without dunes |

diff --git a/docs/review/r1a/README.md b/docs/review/r1a/README.md
@@ -1,0 +1,49 @@
+# R1a review pictures: the sun's shadows (D298)
+
+Rendered on the cloud machine's software device (`hearth --software`); how they look on a real
+GPU, and what they cost there, is the owner's check (`hearth bench --shadows off` against the
+default on the RTX 4060).
+
+- `off_on.jpg` (`tools/shots/r1a.shots`; shadows off left, on right):
+  - a person in the 8 o'clock sun on a dry plain: their shadow cast long across the ground,
+    the shrubs' and stones' beside it;
+  - a ridge at dawn (sun 5° up), 40 m above it: the near ground shadowed by its own
+    bumps, and thin far-cascade shadows out to some kilometres.
+
+  The same file's low hill at dawn (400 m up) is left out: its land is too gentle for a sun 5° up
+  to cast beyond each slope's own shading. That is G1a's gap, not the maps': the two renders
+  differ by 0.02 %.
+- `low_sun_before_after.jpg`: the realism suite's low-sun shots, T2 (left) beside R1a (right).
+  Rows:
+  1. a temperate rainforest at eye height;
+  2. a broadleaf forest from a rise;
+  3. the boreal floor underfoot;
+  4. a savanna at eye height;
+  5. an alpine meadow from a rise;
+  6. a tropical rainforest from a hill.
+
+  Before, a low sun lit the world as noon does. Now trees, grasses, tussocks and stones cast
+  long shadows, and the floor under a canopy is dappled. From the hill the crowns' shadows are a
+  texel or two and barely show (the distant crowns are boxes that do not cast, D298).
+- `edges_underfoot.jpg`: the boreal floor at 7 h from eye height, looking down. Left to right:
+  - shadows off;
+  - an earlier build's edges, hard and stepped at the texels;
+  - the final edges, as soft as the sun's disc makes them at each distance from the caster:
+    sharp at a stem's foot, blurred where a crown's shadow falls far below it.
+- `../realism/suite/*.jpg`: the whole suite again with the shadows (day | low sun, by scale).
+
+Measured (`bench realism images`, `docs/review/realism/measures/images.md`; medians over the
+seventeen biomes, T2 → R1a):
+
+| Measure | T2 | R1a | Earth's |
+|---|---|---|---|
+| Spectral α underfoot | 1.89 | 2.26 | 1.8–2.4 |
+| Spectral α at eye height | 1.23 | 1.32 | 1.8–2.4 |
+| Spectral α from a rise | 1.02 | 1.06 | — |
+| Spectral α from the hill | 1.02 | 1.03 | — |
+| Colourfulness at eye height | 60.5 | 53.5 | 15–60 |
+| Low sun's luminance p5, underfoot | 0.34 | 0.14 | — |
+| Low sun's luminance p5, at eye height | 0.12 | 0.07 | — |
+
+Broad shade now breaks up the pixel-fine texture. The dark tones a low sun leaves are where the
+shadows fall.

diff --git a/BENCHMARKS.md b/BENCHMARKS.md
@@ -894,3 +894,22 @@ an inverse sine and a wrap each), once each column's bicubic weights were found 
 whole map (`Field::bicubic_rows`, the same sums); the keeping off the map's thread. Read back:
 read 7–10 ms; unpacked as one part 42–61 ms and copied out 22–25 ms (0.07–0.106 s, past the
 budget at times); as four parts in parallel into the map's own buffers, 0.025–0.032 s in all.
+
+## R1a — the sun's shadows (`hearth bench --scenes lowland_forest --size 960x540 --software`), 4 cores, software adapter (llvmpipe)
+
+The same build (commit 20a43ac) with `--shadows off` and the default (medium); 150 frames after
+40. On this device a frame is the GPU's (the submit), so the frame rates say nothing of the PC's;
+the GPU's share at 1080p on the RTX 4060 is the owner's check (budget 1.5 ms).
+
+| | Shadows off | Medium |
+|---|---:|---:|
+| Frame p50 (ms) | 846 | 1,047 |
+| GPU: the shadow passes (ms) | 0.06 | 249 |
+| GPU: terrain 0 · distant terrain (ms) | 529 · 282 | 561 · 281 |
+| CPU: prepare: terrain (ms) | 1.02 | 2.52 |
+| Draws · triangles | 2,492 · 0.81 M | 5,316 · 1.54 M |
+| Allocations a frame (prepare: terrain · submit) | 53 · 273 | 113 · 390 |
+
+The frame thread's 1.5 ms is the near cascades' caster lists (the cubes looked up in each
+cascade's region, D298) and their uploads; the allocations are wgpu's staging for the 25 more
+draw lists and 5 globals written a frame.
